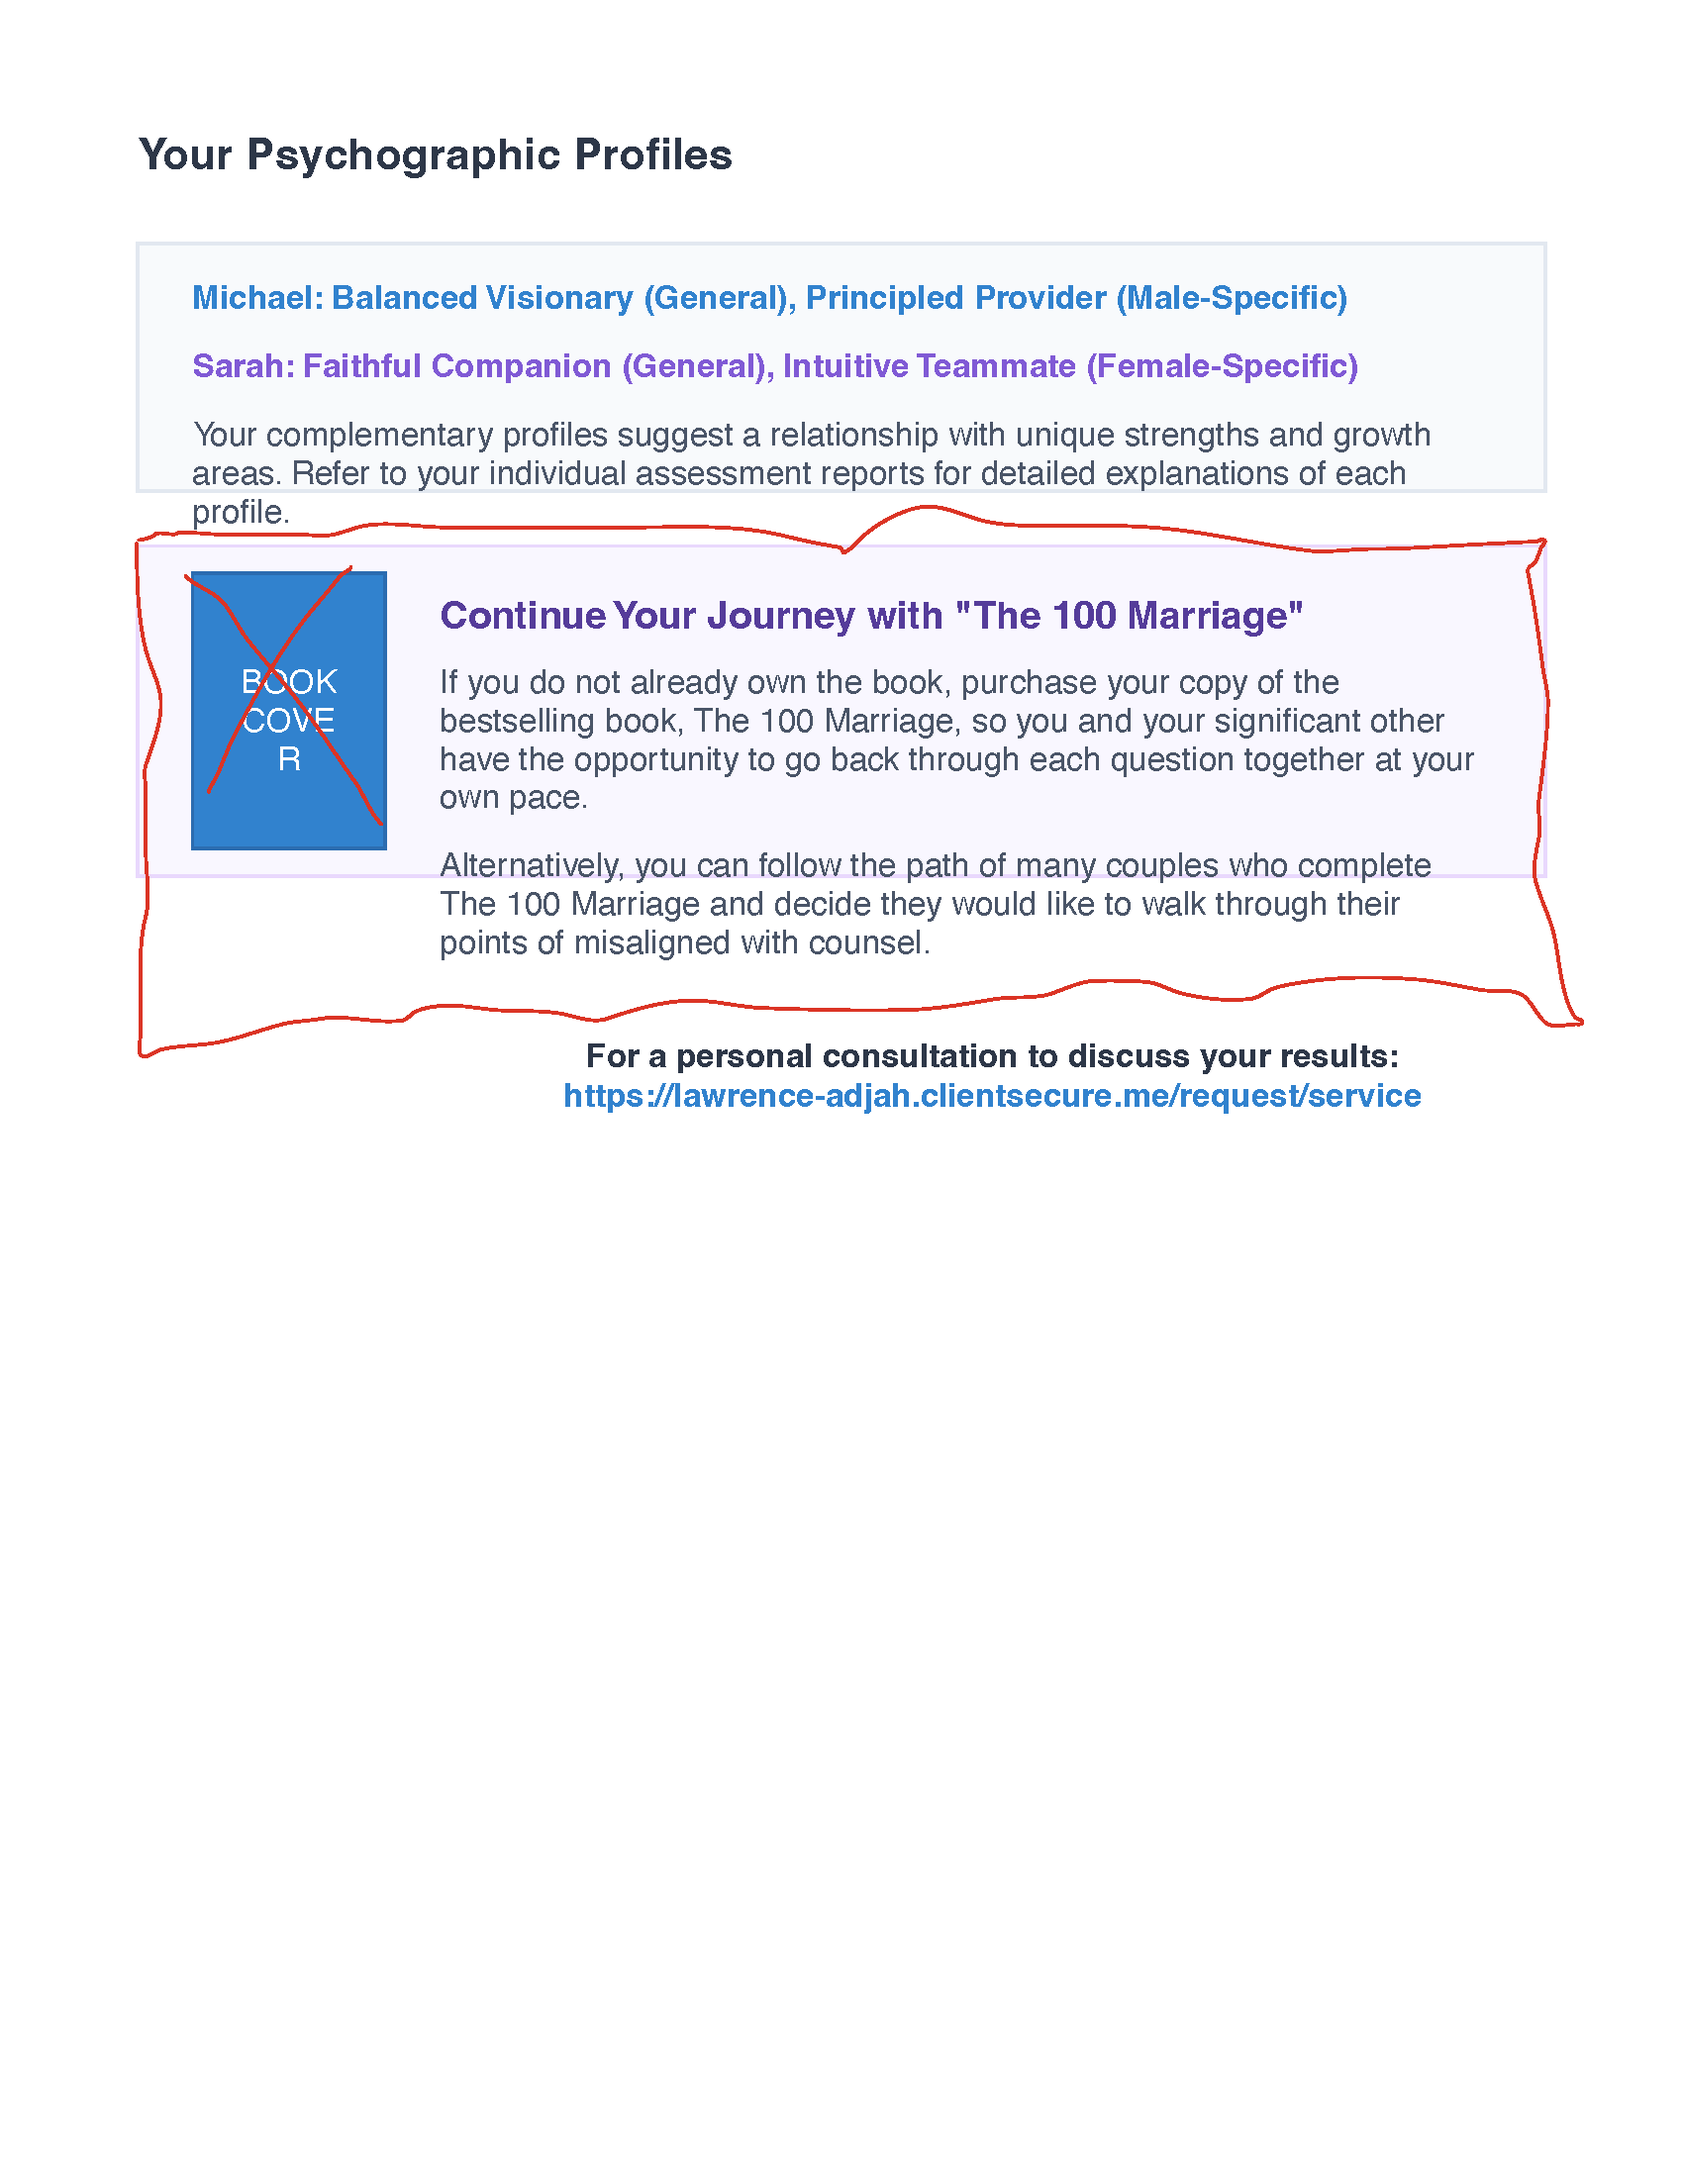
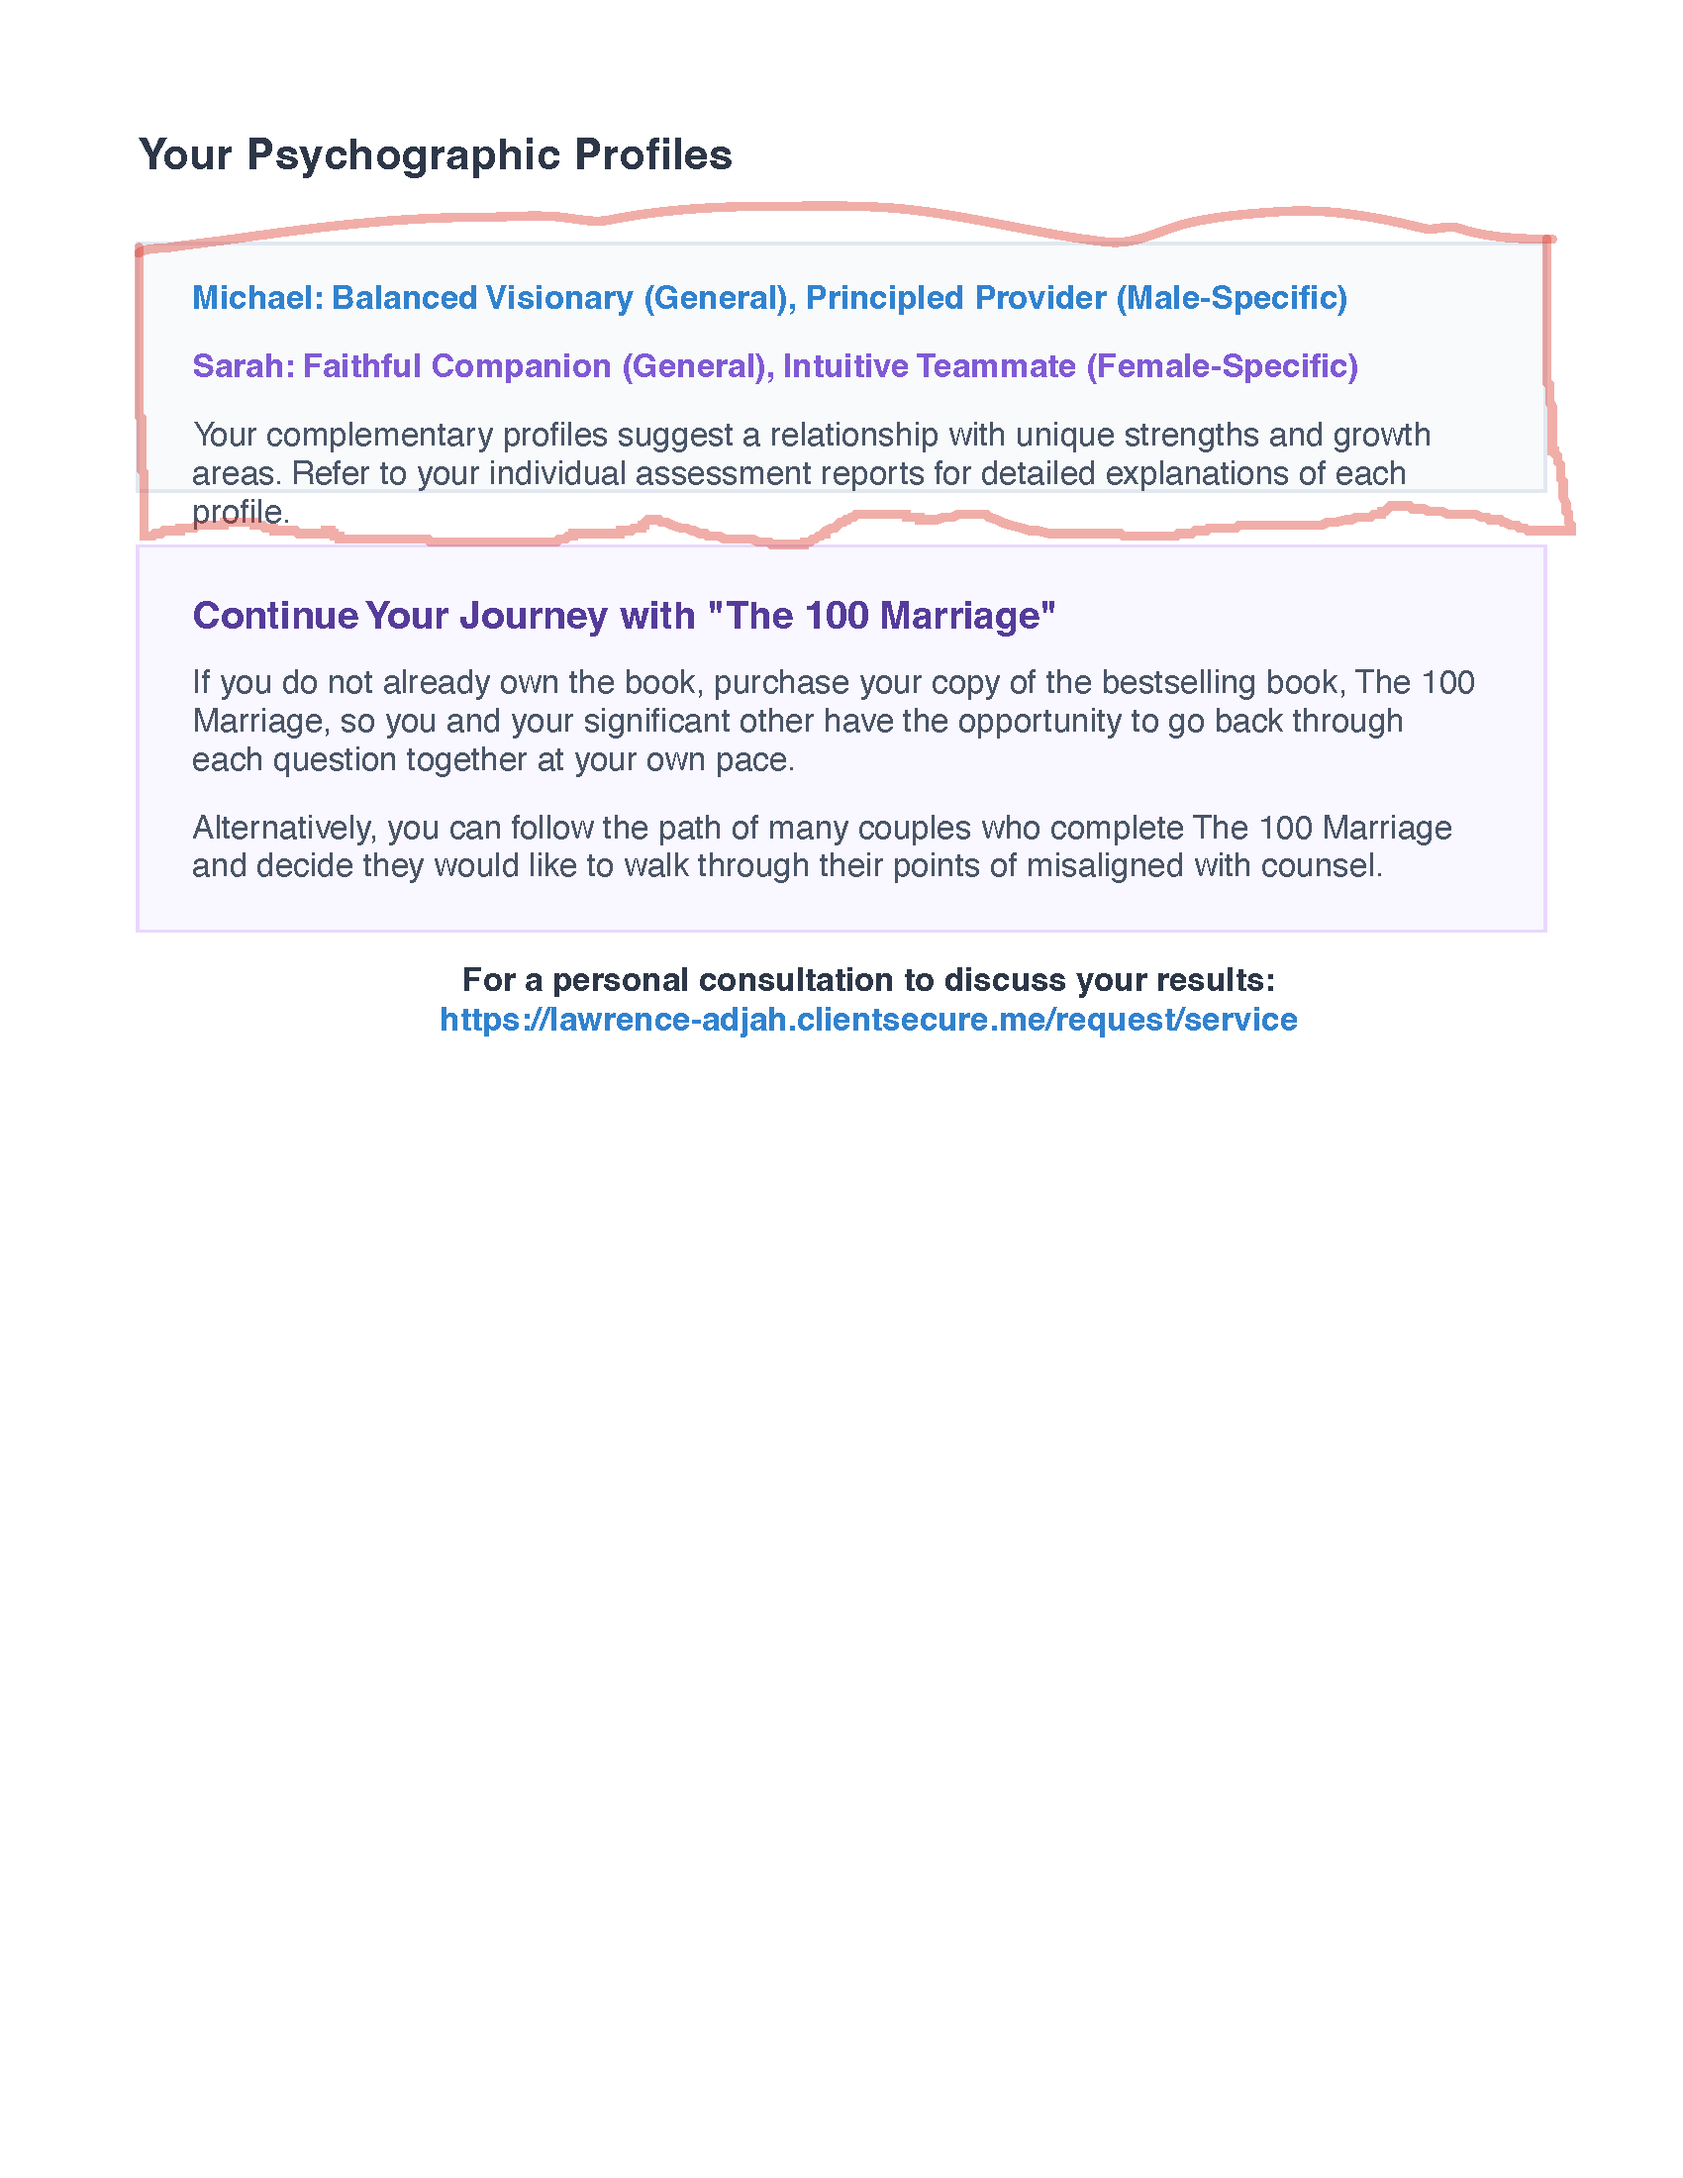
Improve profile summary in PDF reports to align with updated design
Enhances the couple assessment PDF report by adjusting profile summary box, adding a decorative border and improved text layout via modifications to `server/updated-couple-pdf.ts`.

Replit-Commit-Author: Agent
Replit-Commit-Session-Id: 492eb244-359e-4859-b52c-eb3875ae00ca
Replit-Commit-Screenshot-Url: https://storage.googleapis.com/screenshot-production-us-central1/8ed5d051-ce9f-4798-a0bc-e6401a356f7c/75df7db9-6982-411a-8deb-572ec0c6d899.jpg

Changed region(s): [[0.0624, 0.0927, 0.9353, 0.5255], [0.9041, 0.4018, 0.9353, 0.4636], [0.0624, 0.4018, 0.0935, 0.4327]]

diff --git a/server/updated-couple-pdf.ts b/server/updated-couple-pdf.ts
@@ -441,43 +441,54 @@ export async function generateCoupleAssessmentPDF(report: CoupleAssessmentReport
       
       doc.moveDown(0.5);
       
-      // Create profile summary box
+      // Create profile summary box with decorative border (similar to marked up example)
       const summaryBoxY = doc.y + 10;
-      doc.rect(50, summaryBoxY, doc.page.width - 100, 90)
-        .fillAndStroke('#f8fafc', '#e2e8f0');
+      
+      // Draw decorative border (light pink/red shade as shown in markup)
+      doc.lineWidth(2)
+        .strokeColor('#f8a3b3') // Light pink/red shade for border
+        .roundedRect(50, summaryBoxY, doc.page.width - 100, 120, 5)
+        .stroke();
+        
+      // Fill with very light background
+      doc.fillColor('#feeff1')
+        .roundedRect(50, summaryBoxY, doc.page.width - 100, 120, 5)
+        .fill();
       
       // Primary partner profile
       doc.fontSize(12)
         .font('Helvetica-Bold')
-        .fillColor('#3182ce')
+        .fillColor('#3182ce') // Blue for primary partner
         .text(`${primary.name.split(' ')[0]}: ${primary.profile.name} (General), ${primary.genderProfile?.name || 'No gender profile'} (${primary.demographics.gender === 'male' ? 'Male' : 'Female'}-Specific)`, 
-          70, summaryBoxY + 15, {
+          70, summaryBoxY + 20, {
             width: doc.page.width - 140
           });
       
       // Spouse profile  
-      doc.fontSize(12)
+      doc.moveDown(1)
+        .fontSize(12)
         .font('Helvetica-Bold')
-        .fillColor('#805ad5')
+        .fillColor('#805ad5') // Purple for spouse
         .text(`${spouse.name.split(' ')[0]}: ${spouse.profile.name} (General), ${spouse.genderProfile?.name || 'No gender profile'} (${spouse.demographics.gender === 'male' ? 'Male' : 'Female'}-Specific)`, 
-          70, summaryBoxY + 40, {
+          70, doc.y, {
             width: doc.page.width - 140
           });
       
-      // Profile compatibility explanation
-      doc.fontSize(12)
+      // Profile compatibility explanation (improved phrasing as shown in markup)
+      doc.moveDown(1)
+        .fontSize(12)
         .font('Helvetica')
         .fillColor('#4a5568')
         .text('Your complementary profiles suggest a relationship with unique strengths and growth areas. Refer to your individual assessment reports for detailed explanations of each profile.', 
-          70, summaryBoxY + 65, {
+          70, doc.y, {
             width: doc.page.width - 140
           });
       
-      doc.y = summaryBoxY + 110;
+      doc.y = summaryBoxY + 140; // Position further down after the larger profile box
       
       // Book promotion box - expanded with no book cover placeholder
       const bookBoxY = doc.y;
-      doc.rect(50, bookBoxY, doc.page.width - 100, 140) // Increase height to prevent text overrun
+      doc.rect(50, bookBoxY, doc.page.width - 100, 150) // Increase height further to prevent text overrun
         .fillAndStroke('#f9f7ff', '#e9d8fd');
       
       // Book promo text - starts at left margin with more space
